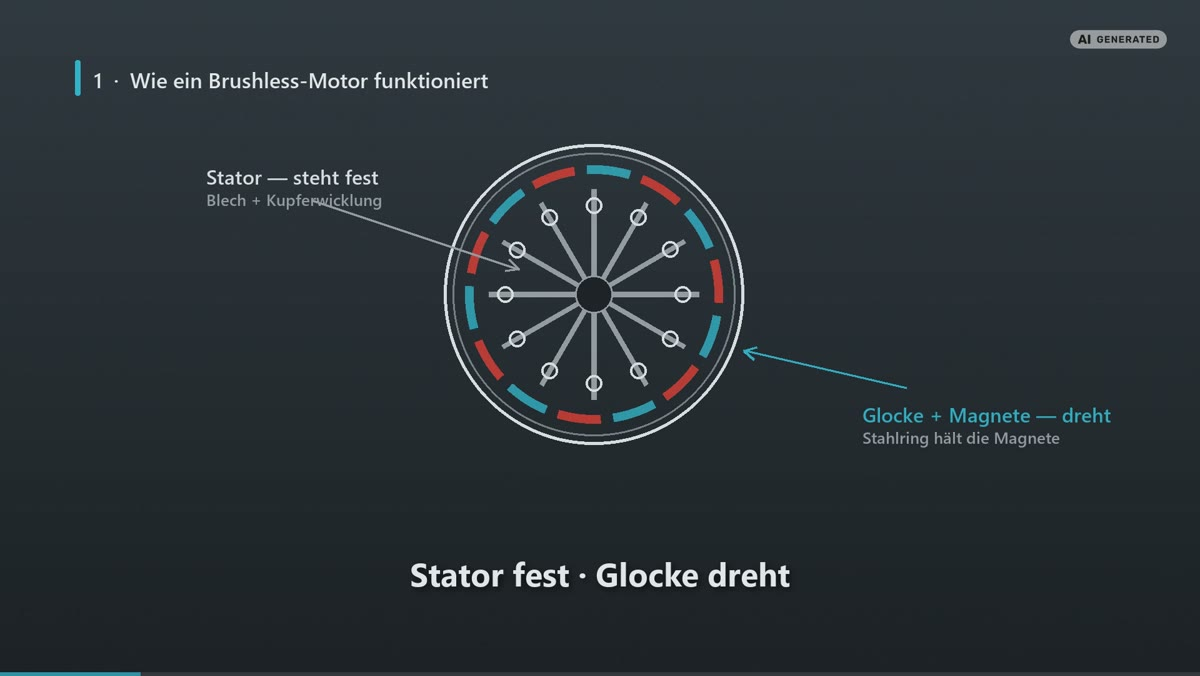
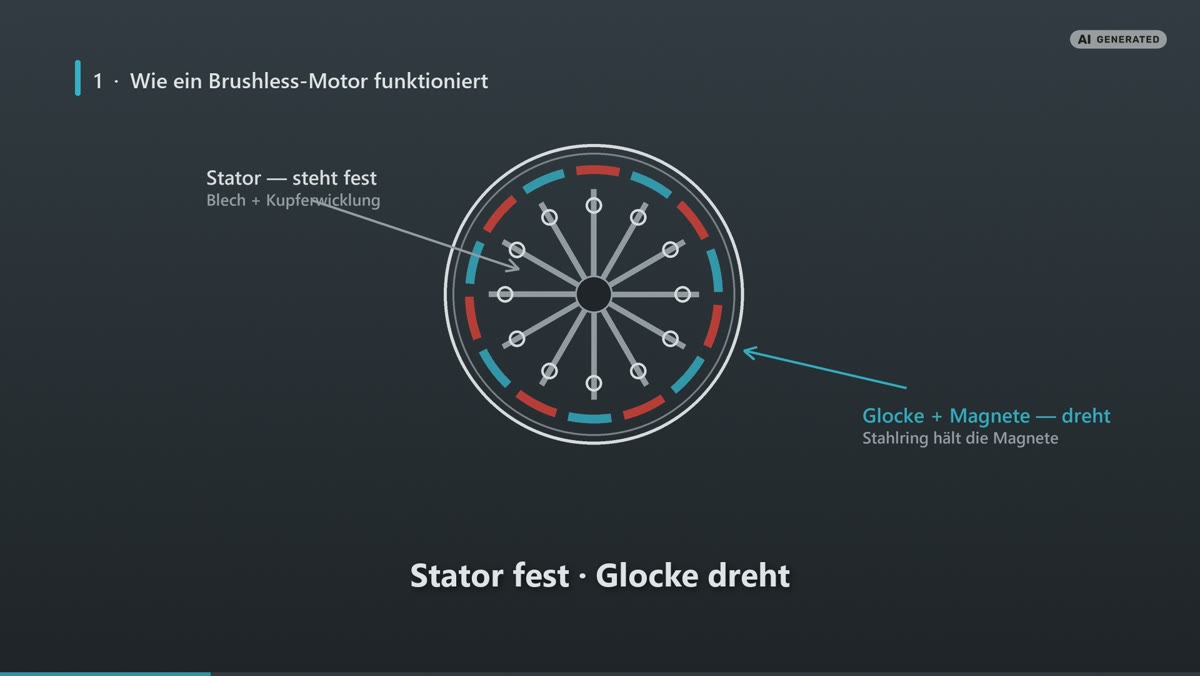
ratgeber motoren: Wissensvideo motoren_kaufen eingebettet, Standbilder neu gerendert
Zweiter Teil der Motoren-Neuauflage (motoren_verstehen war schon eingebettet)
nachgezogen, Standbilder aus dem neuen Video aktualisiert.

diff --git a/ratgeber-motoren.html b/ratgeber-motoren.html
@@ -38,7 +38,7 @@
   "description": "Motoren-Ratgeber für FPV- und Long-Range-Copter: Statorgröße, KV, Drehmoment und Effizienz in Gramm pro Watt, mit unabhängigen Prüfstandsdaten und Marktübersicht.",
   "image": "https://dracolabsgermany.com/assets/ratgeber/motoren-hook.jpg",
   "datePublished": "2026-08-13",
-  "dateModified": "2026-08-16",
+  "dateModified": "2026-09-05",
   "author": { "@type": "Organization", "name": "Draco Labs Germany" },
   "publisher": {
     "@type": "Organization",
@@ -632,6 +632,7 @@
 <!-- historie:start -->
     <h2>Änderungshistorie</h2>
     <ul class="muted historie">
+      <li><strong>05.09.2026</strong> · Wissensvideos neu aufgelegt: in sich geschlossene Bloecke, neue Stimme</li>
       <li><strong>16.08.2026</strong> · Teileliste 15-Zoll-Build 1 verlinkt, Baureihenname des MN4012 korrigiert (Navigator statt Antigravity)</li>
       <li><strong>14.08.2026</strong> · Verweis auf den DARPA-Lift-Challenge-Artikel im Effizienz-Kapitel ergänzt</li>
       <li><strong>14.08.2026</strong> · Neun Schaubilder aus der Wissensvideo-Serie ergänzt</li>
@@ -639,6 +640,60 @@
     </ul>
 <!-- historie:ende -->
 
+<!-- video:start motoren_verstehen -->
+    <h2>Video zum Artikel</h2>
+    <p class="muted">Wo der Schub herkommt: Statormaß, KV und die Zahl, die deine Flugzeit macht.  Der Artikel als Video, gesprochen und animiert.</p>
+    <div style="position:relative; padding-top:56.25%; margin:24px 0; border-radius:8px; overflow:hidden">
+      <iframe src="https://www.youtube-nocookie.com/embed/y9-syqC-8oA" title="Wo der Schub herkommt" loading="lazy" allowfullscreen
+        allow="accelerometer; clipboard-write; encrypted-media; gyroscope; picture-in-picture"
+        style="position:absolute; inset:0; width:100%; height:100%; border:0"></iframe>
+    </div>
+    <script type="application/ld+json">
+{
+  "@context": "https://schema.org",
+  "@type": "VideoObject",
+  "name": "Wo der Schub herkommt",
+  "description": "Statormaß, KV und die Zahl, die deine Flugzeit macht",
+  "thumbnailUrl": "https://i.ytimg.com/vi/y9-syqC-8oA/maxresdefault.jpg",
+  "uploadDate": "2026-09-04T18:00:00+02:00",
+  "duration": "PT10M30S",
+  "embedUrl": "https://www.youtube-nocookie.com/embed/y9-syqC-8oA",
+  "contentUrl": "https://www.youtube.com/watch?v=y9-syqC-8oA",
+  "publisher": {
+    "@type": "Organization",
+    "name": "Draco Labs"
+  },
+  "transcript": "Willkommen bei Draco Labs.  In den nächsten Minuten geht es um die vier Motoren deiner Drohne.  Danach weißt du, welche Zahl im Datenblatt deine Flugzeit macht.  Zwei Motoren, dasselbe Datenblatt.  Der eine liefert 2.370 Gramm Schub, der andere 1.010.  Der schwächere fliegt länger — und zwar deutlich.  Beide Zahlen stehen im selben Dokument, sogar in derselben Tabelle.  Es ist derselbe Motor.  Wie kann ein Motor gleichzeitig der stärkere und der sparsamere sein?  Denk an ein Auto.  Bei Tempo 100 kommt es weit, bei Tempo 180 säuft es fast das Doppelte.  Niemand kauft ein Auto nach der Höchstgeschwindigkeit und fährt damit dann Langstrecke.  Beim Motor macht das trotzdem fast jeder.  Im Laden steht eine einzige Zahl groß daneben: der maximale Schub.  Das ist die Zahl bei Vollgas.  Und Vollgas fliegst du nie länger als ein paar Sekunden.  Deine Drohne schwebt.  Sie hängt bei vielleicht 40 Prozent Gas in der Luft, minutenlang.  Genau dort entscheidet sich, wie lange sie oben bleibt — und über diesen Betriebspunkt sagt der Maximalschub nichts.  Fast alle Multicopter-Motoren sind sogenannte Außenläufer.  Innen sitzt der Stator: ein Paket aus dünnen, gestapelten Elektroblechen mit Zähnen, um die Kupferdraht gewickelt ist.  Außen dreht sich die Glocke: ein Aluminiumtopf, an dessen Innenseite Permanentmagnete kleben, gehalten von einem Stahlring.  Der Stator steht fest — die Glocke mit dem Propeller dreht sich um ihn herum.  Brushless heißt: Es gibt keine Kohlebürsten, die den Strom mechanisch auf eine drehende Spule übertragen.  Stattdessen schaltet der Regler den Strom elektronisch durch die drei Wicklungsstränge des Stators und erzeugt so ein rotierendes Magnetfeld, dem die Magnete der Glocke folgen.  Genau dieser Verzicht auf Bürsten macht die Bauart so effizient und langlebig: Nichts schleift, nichts funkt, und außer den Lagern nutzt sich im Normalbetrieb nichts ab.  Der Motor selbst ist ein rein passives Bauteil aus Blech, Kupfer und Magneten — deshalb gehören Motor und Regler bei der Auslegung immer zusammen gedacht.  Wie viele Zähne und Magnete ein Motor hat, beschreibt die Konfigurationsangabe.  Ein typischer 5-Zoll-Motor ist ein 12N14P: zwölf Statorzähne und vierzehn Magnete.  Große Navigationsmotoren gehen höher — der T-Motor MN4012 etwa ist ein 18N24P.  Mehr Pole laufen ruhiger und runder, was bei großen, langsam drehenden Propellern genau das Richtige ist.  Motorgrößen folgen dem Schema Breite mal Höhe: Die ersten beiden Ziffern sind der Statordurchmesser in Millimetern, die letzten beiden die Statorhöhe.  Ein 2207 hat also einen Stator mit 22 Millimetern Durchmesser und 7 Millimetern Höhe, ein 4012 entsprechend 40 mal 12.  Das klingt nach einem kleinen Schritt, ist aber ein gewaltiger: Das Statorvolumen wächst mit dem Quadrat des Durchmessers.  Der 4012 hat rund das 5,7-Fache des Statorvolumens eines 2207 — gerechnet aus den Nennmaßen, nicht gemessen.  Mehr Volumen heißt mehr Eisen und mehr Kupfer, also mehr Drehmoment.  Auch die Form macht einen Unterschied: Breite, flache Statoren kühlen gut und tragen große Lager, sind aber etwas träger; hohe, schmale Statoren reagieren schneller.  Und eine ehrliche Einschränkung gehört dazu: Das Statormaß allein bestimmt die Performance nicht — zwischen zwei 2207 verschiedener Hersteller können Welten liegen, weil Magnete, Luftspalt und Wicklung mindestens genauso zählen.  Die KV-Zahl gibt an, wie viele Umdrehungen pro Minute der Motor je Volt macht — unbelastet und ohne Propeller.  Ein Motor mit 400 KV an einem 6S-Akku dreht also leer rund 8.900 Umdrehungen pro Minute, gerechnet, nicht gemessen.  Unter Last sieht das anders aus: Mit einem 15-Zoll-Propeller kommt derselbe Motor bei Vollgas nur noch auf 6.300 Umdrehungen.  Die KV ist so etwas wie die Übersetzung des Antriebs: Hohe KV heißt hohe Drehzahl, niedrige KV heißt hohes Drehmoment.  Dahinter steckt ein fester physikalischer Zusammenhang — als Faustformel liefert ein Motor etwa 8,3 geteilt durch seine KV an Newtonmetern je Ampere.  Ein 400-KV-Motor erzeugt also je Ampere gut das Vierfache des Drehmoments eines 1750-KV-Motors, gerechnet.  Genau deshalb brauchen große Propeller niedrige KV: Ein 13- oder 15-Zoll-Propeller ist eine große Luftschraube mit viel Widerstand.  Ein hochdrehender Motor müsste absurde Ströme ziehen, um sie auf Drehzahl zu halten.  Die zweite Hälfte der Gleichung ist die Akkuspannung: KV mal Spannung ergibt die Leerlaufdrehzahl, und derselbe Motor dreht an 8S ein Drittel schneller als an 6S, gerechnet.  KV, Zellenzahl und Propgröße bilden darum immer ein Trio: Ändert man eine der drei Größen, müssen die anderen mitziehen.  Was passiert, wenn das Trio nicht zusammenpasst, zeigen unabhängige Prüfstandsmessungen sehr deutlich.  Ein Motor mit zu hoher KV für seinen Propeller läuft bei hohem Gas aus dem Drehmoment: Der Stromverbrauch explodiert, und die Effizienz bricht genau dort ein, wo eine Long-Range-Drohne dauerhaft arbeitet.  Die umgekehrte Richtung ist gutmütiger: Etwas zu niedrige KV kostet Maximalschub, hält aber den Strom unter Kontrolle.  Die wichtigste Kennzahl für Long Range ist nicht der Maximalschub, sondern die Effizienz: Wie viel Gramm Schub liefert der Antrieb je Watt elektrischer Leistung? Diese Zahl steht in jedem guten Motordatenblatt — und sie hat eine Eigenschaft, die man kennen muss: Sie ist bei Teillast am höchsten.  Ein Beispiel aus dem offiziellen Datenblatt des T-Motor MN4012 mit 400 KV, gemessen mit einem 15-mal-5-Carbon-Propeller: Bei halbem Gas liefert der Motor 1.010 Gramm Schub aus knapp 107 Watt — das sind 9,48 Gramm pro Watt.  Bei Vollgas sind es 2.370 Gramm aus 360 Watt, nur noch 6,59.  Bei halbem Gas holt derselbe Motor also rund 44 Prozent mehr Schub aus jedem Watt, gerechnet aus den Datenblattwerten.  Die Konsequenz für die Auslegung: Motoren so wählen, dass die Drohne im Schwebe- und Reiseflug deutlich unter halbem Gas arbeitet.  Eine 3-Kilo-Drohne braucht je Motor 750 Gramm Schub, gerechnet — auf der 15-Zoll-Kombination von eben liegt das komfortabel unterhalb der Halbgas-Marke.  Überdimensioniert ist beim Long-Range-Antrieb kein Mangel, sondern das Ziel.  Der zweite Hebel ist die Prop-Größe: Am selben Motor steigt die Teillast-Effizienz mit dem Propeller — von 9,01 Gramm pro Watt mit 13 Zoll über 9,33 mit 14 und 9,48 mit 15; die 340-KV-Variante schafft mit 16 Zoll sogar über 11.  Große, langsam drehende Propeller sind schlicht die effizienteste Art, Luft zu bewegen.  Wichtig beim Lesen solcher Zahlen: Gemessen wird immer das System aus Propeller, Motor und Regler, und jeder Messwert gilt nur für genau einen Lastpunkt.  Datenblätter vergleicht man deshalb nur bei gleicher Spannung, gleichem Propeller und gleicher Gasstellung.  Und der dritte Hebel ist die Motorwahl selbst.  In einem unabhängigen Vergleichstest von elf 9-Zoll-Motoren lag die gemessene Antriebseffizienz bei 600 Watt zwischen 72,5 und knapp 82 Prozent — fast zehn Prozentpunkte Unterschied allein durch den Motor, bei ansonsten identischem Aufbau.  Auf einen Long-Range-Flug gerechnet ist das der Unterschied von mehreren Minuten Flugzeit.  Was heißt das für deinen nächsten Build? Erst der Propeller, dann der Motor, dann die KV.  Die Propgröße bestimmt die Statorklasse, die Zellenzahl bestimmt die KV — die drei bilden ein Trio, das man gemeinsam ändert oder gar nicht.  Und leg den Antrieb so aus, dass deine Drohne deutlich unter halbem Gas schwebt.  Vergleiche Gramm pro Watt bei 50 Prozent Gas, nicht den Maximalschub.  Überdimensioniert ist beim Long-Range-Antrieb kein Mangel.  Es ist das Ziel.  Die vollständigen Datenblattzahlen und alle Quellen stehen im Ratgeber, Link in der Beschreibung.  Bei wie viel Prozent Gas schwebt deine Drohne? Wenn du es nicht weißt — genau das ist die Zahl, die deine Flugzeit macht.  Schreib sie in die Kommentare."
+}
+    </script>
+<!-- video:ende motoren_verstehen -->
+
+<!-- video:start motoren_kaufen -->
+    <p class="muted">Was der Prüfstand verrät: Woran du einen guten Motor erkennst, bevor du ihn kaufst.  Der Artikel als Video, gesprochen und animiert.</p>
+    <div style="position:relative; padding-top:56.25%; margin:24px 0; border-radius:8px; overflow:hidden">
+      <iframe src="https://www.youtube-nocookie.com/embed/ZCe3MdwtInM" title="Was der Prüfstand verrät" loading="lazy" allowfullscreen
+        allow="accelerometer; clipboard-write; encrypted-media; gyroscope; picture-in-picture"
+        style="position:absolute; inset:0; width:100%; height:100%; border:0"></iframe>
+    </div>
+    <script type="application/ld+json">
+{
+  "@context": "https://schema.org",
+  "@type": "VideoObject",
+  "name": "Was der Prüfstand verrät",
+  "description": "Woran du einen guten Motor erkennst, bevor du ihn kaufst",
+  "thumbnailUrl": "https://i.ytimg.com/vi/ZCe3MdwtInM/maxresdefault.jpg",
+  "uploadDate": "2026-09-05T18:00:00+02:00",
+  "duration": "PT11M16S",
+  "embedUrl": "https://www.youtube-nocookie.com/embed/ZCe3MdwtInM",
+  "contentUrl": "https://www.youtube.com/watch?v=ZCe3MdwtInM",
+  "publisher": {
+    "@type": "Organization",
+    "name": "Draco Labs"
+  },
+  "transcript": "Willkommen bei Draco Labs.  In den nächsten Minuten geht es darum, wie du einen guten Motor erkennst.  Danach weißt du, worauf du vor dem Kauf wirklich schaust.  Auf dem Motor steht 1300 KV — 1300 Umdrehungen je Volt.  Gemessen sind es 1150.  Der Hersteller lügt dabei nicht einmal, und die Abweichung macht den Motor sogar sparsamer.  Trotzdem passt jetzt dein Propeller nicht mehr zu deinem Akku.  Wie prüfst du das, bevor du bestellst?  Denk an ein Hemd in Größe L.  Bei der einen Marke sitzt es eng, bei der nächsten hängt es an dir herunter.  Auf beiden Etiketten steht dasselbe.  Du kaufst trotzdem nach dem Etikett, weil du nichts anderes hast — außer du ziehst es vorher an.  Beim Motor gibt es etwas anderes.  Es gibt Leute, die jeden Motor anprobieren, bevor du ihn kaufst: auf einem Prüfstand, jeder Motor derselbe Parcours, jede Zahl gemessen statt gedruckt.  Und diese Messwerte stehen öffentlich im Netz.  Was dort steht, deckt sich erstaunlich oft nicht mit dem, was auf dem Motor steht.  Motoren kauft man am besten nach unabhängigen Messungen, nicht nach Datenblatt-Superlativen.  Die Referenz dafür sind die Prüfstandstests von Chris Rosser: Jeder Motor durchläuft dort denselben Parcours aus KV-Messung, Schubrampe an stabilisierter Spannung, Reaktionstest mit Gassprüngen und einem Schwungrad-Test, der das Drehmoment über den Drehzahlbereich misst — gefahren auf kommerziellen Messprüfständen.  Das Ernüchternde an diesen Messungen: Die aufgedruckte KV, die Umdrehungen je Volt, stimmt erstaunlich oft nicht.  Ein als 1300 KV verkaufter 7-Zoll-Motor maß real etwa 1150, zwei als 1100 deklarierte 9-Zoll-Motoren lagen unter 1000, und ein kleiner Racing-Motor verfehlte sein Rating um volle 500 KV.  Abweichungen um zehn Prozent sind keine Seltenheit.  Das ist nicht immer Betrug — zu niedrige Ist-KV verbessert sogar die Effizienz.  Aber sie kostet Maximalschub, und sie verschiebt die Abstimmung von Propeller und Zellenzahl.  Wer vergleichen will, vergleicht gemessene Werte.  Zwei weitere Lehren aus hunderten Prüfstandsläufen.  Erstens: Schwere Motoren schneiden in Rohwerten fast automatisch gut ab — seriöse Vergleiche normieren deshalb auf das Gewicht.  Zweitens: Das im Schwungrad-Test gemessene Drehmoment sagt zuverlässig voraus, wie direkt sich ein Motor am Stick anfühlt; zwischen dem besten und dem schwächsten 7-Zoll-Motor lagen dabei 0,275 gegen 0,15 Newtonmeter.  Dass gutes Motordesign kein Zufall ist, zeigt ein Experiment aus derselben Werkstatt: Für einen Motor der 2207er-Klasse wurden per Simulation über 20.000 Design-Varianten durchgerechnet.  Das Ergebnis schaffte 1.980 Gramm Maximalschub gegenüber 1.680 im Klassendurchschnitt — rund 18 Prozent mehr — bei 4,6 Prozent besserer Effizienz und praktisch identischem Gewicht.  Schub und Effizienz sind also kein zwingender Widerspruch: Gutes magnetisches Design hebt beides.  Und der Preis? Sagt wenig.  Im 9-Zoll-Vergleich war der günstigste Motor des Testfelds zugleich einer der besten — mit über 80 Prozent Effizienz bei 600 Watt.  Woran erkennt man einen robusten Motor, wenn man kein Prüfstand-Labor hat? An ein paar Konstruktionsmerkmalen, die Hersteller in der Regel dokumentieren.  Das erste ist die Wicklung: Dass derselbe Motor mit 340, 400 und 480 KV existiert, liegt fast nie am Blechpaket, sondern an der Windungszahl.  Mehr Windungen je Zahn senken die KV und erhöhen das Drehmoment je Ampere; weniger Windungen heben die KV und lassen Platz für dickeren Draht mit weniger Widerstand.  Der Widerstand ist keine Nebensache: Die Verlustwärme in der Wicklung wächst mit dem Quadrat des Stroms.  Deshalb steht der Innenwiderstand in jedem guten Datenblatt — beim MN4012 sind es 75 Milliohm.  Und wie viel Kupfer überhaupt in den Stator passt, beschreibt der Füllgrad: Maschinell erreichbar sind je nach Verfahren etwa 55 bis 75 Prozent.  Genau hier trennt sich gute von mittelmäßiger Fertigung.  Für dieselbe Windungszahl gibt es zwei Bauweisen: ein dicker Draht je Zahn — Single-Core — oder mehrere dünne parallel.  Parallel-Stränge lassen sich leichter wickeln.  Für schwere Drohnen, die dauerhaft unter Last laufen, ist trotzdem Single-Core die klar robustere Wahl: Mehrsträngige Wicklungen mit ihrer dünneren Isolierung überhitzen deutlich schneller und brennen eher durch.  Hochwertige Motoren verwenden zusätzlich temperaturfesten Wicklungslack, spezifiziert bis 260 Grad.  Die drei Wicklungsstränge lassen sich auf zwei Arten verschalten: im Stern oder im Dreieck.  Dieselbe Wicklung hat im Dreieck die 1,73-fache KV der Stern-Variante.  Als Käufer wählt man das nicht selbst — aber es erklärt, warum die KV allein nichts über die Güte eines Motors sagt: Sie ist eine Auslegungsentscheidung, kein Qualitätsmerkmal.  Bei den Magneten beschreibt die Güteklasse — N 50, N 52, N 54 — die Stärke des Materials; gebogene Magnete verkleinern den Luftspalt und verbessern Drehmoment und Wirkungsgrad.  Wichtig für den Betrieb: Hitze ist der Feind der Magnete.  Standard-Güten sind nur bis etwa 80 Grad spezifiziert — schon unterhalb davon verlieren sie vorübergehend fünf bis zehn Prozent Stärke, und oberhalb wird der Verlust dauerhaft.  Temperaturfeste Varianten wie S-H-Material sind bis 150 Grad stabil.  Dazu kommen drei Details.  Der Stahlring, der die Magnete in der Glocke hält, schließt zugleich den Magnetkreis — ein dickerer Ring verbessert die Performance und macht die Glocke crashfester.  Japanische Markenlager gelten als Referenz, und Lager sind Verschleißteile: Ein Motor, der nach einem Crash kratzt oder pfeift, braucht meist nur neue Lager.  Und einteilig gefräste Glocken aus hartem Aluminium überstehen Stürze besser als zweiteilige Konstruktionen.  Ein Brushless-Motor sieht simpel aus: Kupfer, Blech, Magnete.  Warum die Fertigung trotzdem eine Kunst ist, zeigt ein ausführliches Interview mit dem Chef von EUMOTORS — einem der ersten Hersteller, der Drohnenmotoren in Serie außerhalb Chinas baut, mit Werken in Krakau und Miami und einer Zielkapazität von 100.000 Motoren pro Monat.  Zwei Punkte daraus sind für Käufer lehrreich.  Erstens: Die Leistungsgrenzen eines Motors setzen Material und Fertigung, nicht die Idee — besseres Wickel-Equipment bringt schlicht mehr Kupfer in den Stator, und wer seine Statorbleche selbst stanzt, kann die Geometrie an die Anwendung anpassen.  Zweitens: Qualität heißt Wiederholbarkeit.  Zehn perfekte Muster beweisen nichts; erst zehntausende Motoren in gleicher Qualität machen ein Serienprodukt.  Und drittens: Der Erfahrungsvorsprung Chinas liegt bei 20 bis 25 Jahren, und er steckt in unzähligen kleinen Prozessdetails.  Wer europäische Fertigung will, bekommt sie inzwischen — aber sie ist jung.  Für unsere Beratung ist der Katalog des Herstellers inzwischen ein festes Werkzeug: 42 Motoren von 3 bis 36 Zoll, mit vollständigen Datenblättern.  Temperatur im Blick behalten.  Die Datenblatt-Referenz: Der MN4012 erreicht nach zehn Minuten Dauervollgas je nach Propeller und KV-Variante 47 bis 60 Grad — mit reichlich Abstand zur 80-Grad-Grenze der Standard-Magnetgüten.  Ein Motor, den man nach der Landung nicht mehr anfassen mag, läuft außerhalb seines Wohlfühlbereichs: Propeller verkleinern, Gewicht senken oder die KV-Wahl überdenken, denn dauerhafte Hitze altert Magnete und Wicklungsisolierung.  Nach dem Crash: Glocke von Hand drehen.  Kratzen oder Pfeifen deutet auf Lagerschaden, spürbares Rasten in Verbindung mit einem Schlag auf eine verbogene Welle oder gelöste Magnete.  Lager lassen sich bei den meisten Motoren einzeln tauschen — das ist deutlich günstiger als ein neuer Motor.  Bei der Montage: 5-Zoll-Motoren mit Propeller-Mutter gibt es mit zwei Gewinderichtungen, damit sich die Mutter im Flug festzieht statt zu lösen.  Die großen Klassen ab etwa neun Zoll montieren ihre Propeller mit Schrauben auf der Glocke — hier zählt das passende Lochbild und die richtige Schraubenlänge, damit nichts in die Wicklung ragt.  Und beim Motorkauf auf die Propeller-Aufnahme achten: T-Mount, 5-Millimeter-Welle und Schraubmontage sind nicht untereinander kompatibel.  Was heißt das für deinen nächsten Build? 13 Zoll heißt bei uns 4012er-Klasse mit 400 KV auf 6S.  Die vollständige Tabelle für alle Größen steht im Ratgeber, Link unten.  Ob alle vier Motoren identisch sein müssen und wie lange sie halten: steht dort als Frage und Antwort.  Hier bleibt der Teil, den du vor dem Kauf brauchst.  Für schwere Builds gilt: Single-Core-Wicklung, Temperatur im Blick, und kratzende Lager tauschen, statt Motoren wegzuwerfen.  Traue Messungen, nicht Etiketten — und deiner Hand nach der Landung mehr als beiden.  Wie warm sind deine Motoren nach zehn Minuten? Und hast du danach schon mal Lager getauscht statt Motoren? Schreib es in die Kommentare."
+}
+    </script>
+<!-- video:ende motoren_kaufen -->
 
 <!-- partner:start -->
     <h2>Partner &amp; Empfehlungen</h2>
